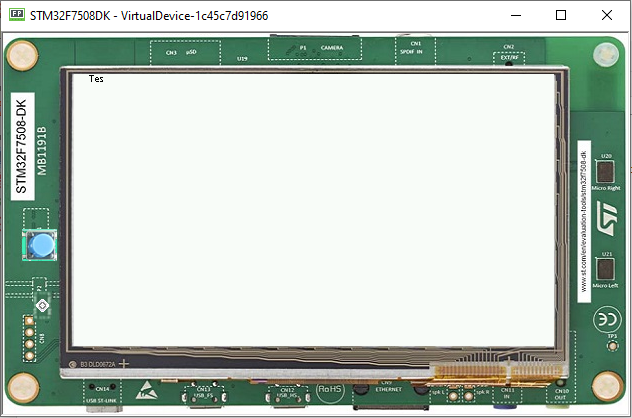
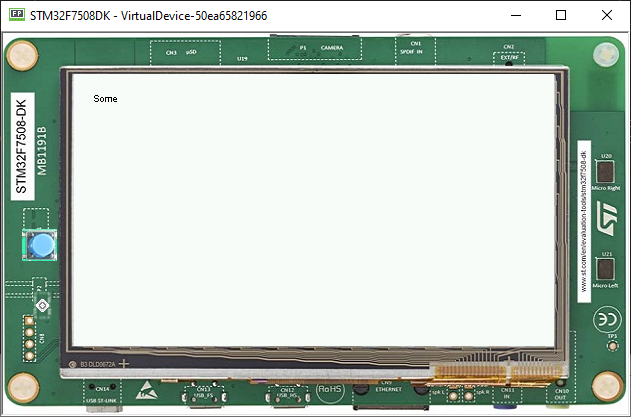
Rewrite snippets

diff --git a/ApplicationDeveloperGuide/UI/Advanced/how-to-text-overflow.rst b/ApplicationDeveloperGuide/UI/Advanced/how-to-text-overflow.rst
@@ -2,7 +2,7 @@ How to detect text overflow
 ===========================
 
 
-Widgets that display some text may experience text overflow when the strings are too long to fit into the available area. It can be the case, for example, in applications that support multiple languages because widgets have to deal with texts of different lengths.
+Widgets that display a text may experience text overflow when the strings are too long to fit into the available area. It can be the case, for example, in applications that support multiple languages because widgets have to deal with texts of different lengths.
 
 
 Instrumenting the widget
@@ -12,6 +12,9 @@ The goal is to check whether the text to be displayed is within the content boun
 In this article, the widget ``MyLabel`` will extend the type ``Label`` from the Widget library, which displays a text:
 
 .. code-block:: java
+    :emphasize-lines: 3
+
+    import ej.widget.basic.Label;
 
     public class MyLabel extends Label {
 
@@ -25,23 +28,26 @@ Overriding the onLaidOut() method
 ---------------------------------
  
 Once the position and size of a wigdet are set during the lay out process, the ``onLaidOut()`` method is called to notify the widget.
-Overriding this method is a good place to check whether the text overflows or not.
+Overriding ``onLaidOut()`` of class ``MyLabel`` is a good place to check whether the text overflows or not.
 
 For example, the following snippet compares the text width with the available width: it will print a message if an overflow is detected.
 
 .. code-block:: java
+    :emphasize-lines: 12,13,14
 
     @Override
     protected void onLaidOut() {
         super.onLaidOut();
+        
+        // compute the width of the text with the specified font
         final Font font = getStyle().getFont();
         final String text = getText();
-        // compute the width of the text with the specified font
         final int textWidth = font.stringWidth(text);
-        // get the available width for the content of the widget (excluding outlines)
+        
+        // compare to the width available for the content of the widget
         final int contentWidth = getContentBounds().getWidth();
         if (textWidth > contentWidth) {
-            System.err.println("The text size is greater than the widget content width!");
+            System.out.println("Overflow detected:\n > Text: \"" + text + "\"\n > Width = " + textWidth + " px (available: " + contentWidth + " px)");
         }
     }
 
@@ -52,12 +58,14 @@ Testing
 Here is a case where the widget size is set manually to be a little shorter than the text width:
   
 .. code-block:: java
+    :emphasize-lines: 6
 
     public static void main(String[] args) {
         MicroUI.start();
         Desktop desktop = new Desktop();
         Canvas canvas = new Canvas();
-        canvas.addChild(new MyLabel("Test"), 15, 0, 15, 10);
+        // add a label with an arbitrary fixed width of 25 pixels (which is too short)
+        canvas.addChild(new MyLabel("Some text"), 20, 20, 25, 10);
         desktop.setWidget(canvas);
         desktop.requestShow();
     }
@@ -66,67 +74,134 @@ Here is a case where the widget size is set manually to be a little shorter than
     :alt: Text overflow example
     :align: center
 
-The console should now log that a text overflow has been detected:
+The text is cropped and the console logs that a text overflow has been detected:
 
 .. code-block:: console
 
-    The text size is greater than the widget content width!
+    =============== [ Initialization Stage ] ===============
+    =============== [ Converting fonts ] ===============
+    =============== [ Converting images ] ===============
+    =============== [ Launching on Simulator ] ===============
+    Overflow detected:
+     > Text: "Some text"
+     > Width = 47 px (available: 25 px)
 
 
 Improving the detection
 -----------------------
 
-To ease the correction process, it is best to add some additional debug information to locate the issue.
+To ease the correction process, it is best to add some additional debug information to locate the issue. 
+Let's extract the text overflow detection into a helper class, so that it is available for all classes across the application.
 
-The following snippet adds:
-* the text that overflows and where it truncates.
-* the path to the widget in the widget hierachy to help the tester locate the affected widget in the GUI.
+The following snippet:
+ 
+* extracts the text overflow detection into the class ``MyTextHelper``.
+* prints the part of the text that is displayed.
+* prints the path to the widget in the widget tree to help the tester locate the affected widget in the GUI.
 
 .. code-block:: java
+    :emphasize-lines: 13,31
 
-    @Override
-    protected void onLaidOut() {
-        final Font font = getStyle().getFont();
-        final String text = getText();
-        final int stringWidth = font.stringWidth(text);
-        final int labelWidth = this.getContentBounds().getWidth();
-        if (stringWidth > labelWidth) {
-            for (int i = text.length() - 1; i >= 0; i--) {
-                if (font.substringWidth(text, 0, i) <= labelWidth) {
-                    System.out.printErr(text + "\" truncates after \"" + text.substring(0, i) + "\""); //$NON-NLS-1$ //$NON-NLS-2$
-                    break;
-                }
+    public class MyLabel extends Label {
 
-            }
+        public MyLabel(String text) {
+            super(text);
+        }
+
+        @Override
+        protected void onLaidOut() {
+            super.onLaidOut();
+
+            final Font font = getStyle().getFont();
+            final String text = getText();
+            MyTextHelper.checkTextOverflow(this, text, font);
         }
     }
-
-
-This code may also be extracted to a helper class in order to be used in other widgets:
-
-.. code-block:: java
 
     public class MyTextHelper {
 
-        public static void checkTextOverflow(final Font font, final String text, final int contentWidth) {
-            if (Constants.getBoolean("com.mycompany.check.text.overflow")) {
-                int stringWidth = font.stringWidth(text);
-                if (stringWidth > contentWidth) {
-                    for (int i = text.length() - 1; i >= 0; i--) {
-                        if (font.substringWidth(text, 0, i) <= contentWidth) {
-                            System.out.printErr(text + "\" truncates after \"" + text.substring(0, i) + "\""); //$NON-NLS-1$ //$NON-NLS-2$
-                            break;
-                        }
-                    }
-                }
+        /**
+        * Checks whether the given text overflows for the specified widget and font. In the case where an overflow is
+        * detected, the method prints a message that details the error.
+        *
+        * @param widget
+        *            the widget that displays the text.
+        * @param text
+        *            the text to display.
+        * @param font
+        *            the font used for drawing the text.
+        */
+        public static void checkTextOverflow(final Widget widget, final String text, final Font font) {
+            final int textWidth = font.stringWidth(text);
+            final int contentWidth = widget.getContentBounds().getWidth();
+
+            if (textWidth > contentWidth) {
+                String displayedText = buildDisplayedText(text, font, contentWidth);
+                String widgetPath = buildWidgetPath(widget);
+                System.out.println(
+                        "Overflow detected:\n > Text: \"" + text + "\"\n > Width = " + textWidth + " px (available: "
+                                + contentWidth + " px) \n > Displayed: \"" + displayedText + "\"\n > Path : " + widgetPath);
             }
         }
-    
+
+        private static String buildDisplayedText(String text, Font font, int width) {
+            for (int i = text.length() - 1; i > 0; i--) {
+                if (font.substringWidth(text, 0, i) <= width) {
+                    return text.substring(0, i);
+                }
+            }
+
+            return "";
+        }
+
+        private static String buildWidgetPath(Widget widget) {
+            StringBuilder builder = new StringBuilder();
+
+            Widget ancestor = widget;
+            do {
+                builder.insert(0, " > " + ancestor.getClass().getSimpleName());
+                ancestor = ancestor.getParent();
+            } while (ancestor != null);
+            builder.insert(0, widget.getDesktop().getClass().getSimpleName());
+
+            return builder.toString();
+        }
     }
 
-.. note::
+When the application is launched again, the console shows more information about the text overflow:
 
-    Note the usage of :ref:`BON constants <section.classpath.elements.constants>` ``com.mycompany.check.text.overflow``. The debug code will not be embedded in the production firmware when the constant is set to ``false``.
-    It also disables the extra verbosity.
+.. code-block:: console
+
+    =============== [ Initialization Stage ] ===============
+    =============== [ Converting fonts ] ===============
+    =============== [ Converting images ] ===============
+    =============== [ Launching on Simulator ] ===============
+    Overflow detected:
+     > Text: "Some text"
+     > Width = 47 px (available: 25 px) 
+     > Displayed: "Some"
+     > Path : Desktop > Canvas > MyLabel
+
+
+To keep control over the extra verbosity and code size, one option is to use :ref:`BON constants <section.classpath.elements.constants>` to enable/disable this debug code at will.
+In the following snippet, when the constant ``com.mycompany.check.text.overflow`` is set to ``false``, the debug code will not be embedded in the application.
+
+.. code-block:: java
+
+    public static void checkTextOverflow(final Widget widget, final String text, final Font font) {
+        if (Constants.getBoolean("com.mycompany.check.text.overflow")) {
+            final int textWidth = font.stringWidth(text);
+            final int contentWidth = widget.getContentBounds().getWidth();
+
+            if (textWidth > contentWidth) {
+                String displayedText = buildDisplayedText(text, font, contentWidth);
+                String widgetPath = buildWidgetPath(widget);
+                System.out.println(
+                        "Overflow detected:\n > Text: \"" + text + "\"\n > Width = " + textWidth + " px (available: "
+                                + contentWidth + " px) \n > Displayed: \"" + displayedText + "\"\n > Path : " + widgetPath);
+            }
+        }
+    }
+
 
 
